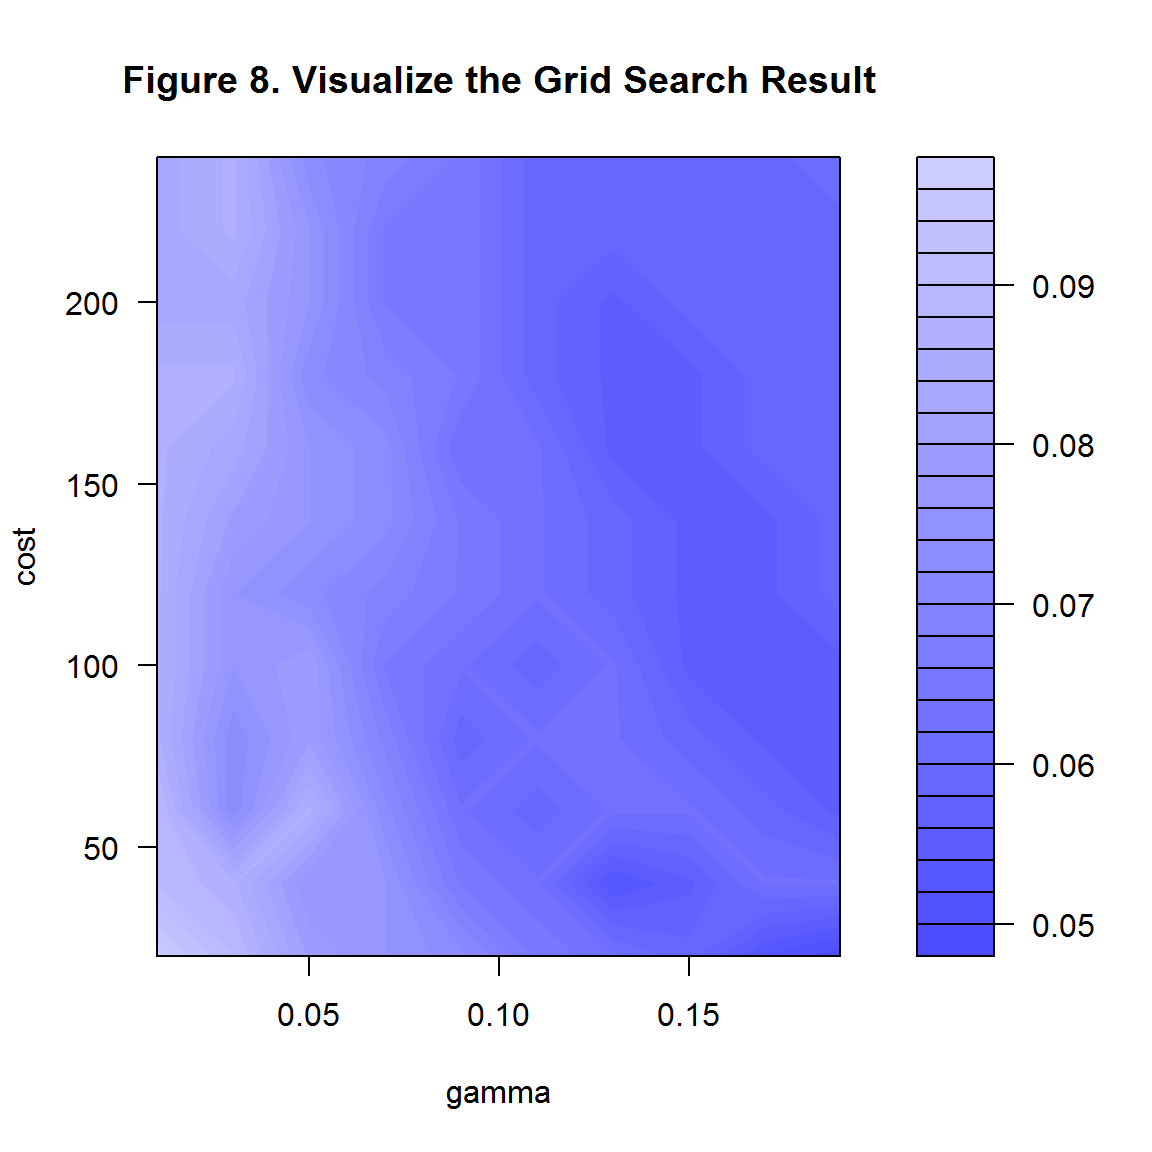
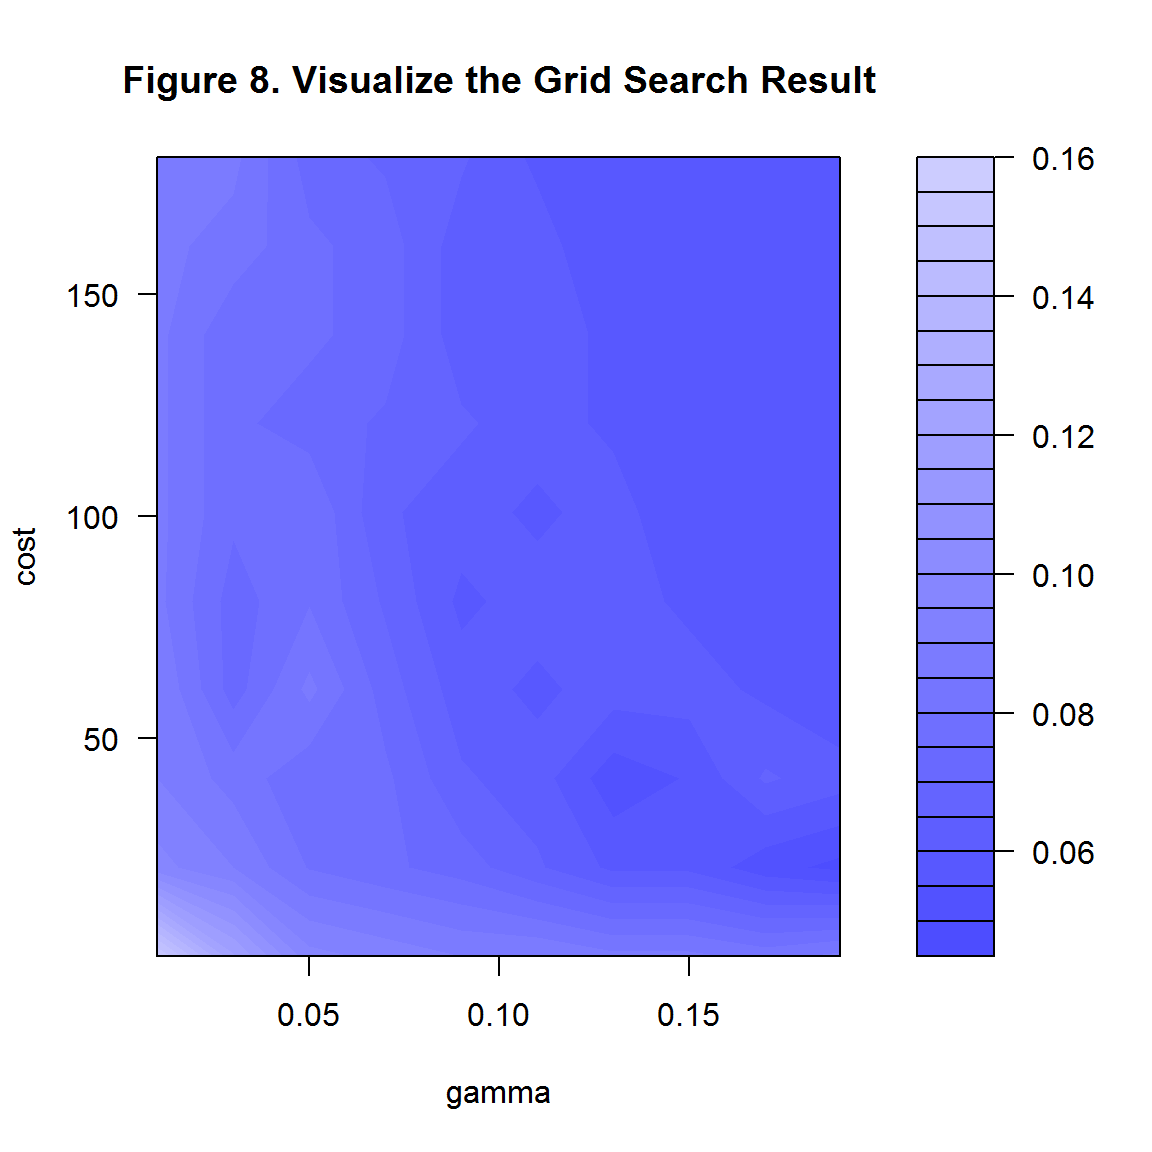
output

diff --git a/docs/birdbones.html b/docs/birdbones.html
@@ -672,12 +672,12 @@ print (paste0(&quot;Classification accuracy of linear SVM is &quot;,
 svm.rbf &lt;- tune(svm, new.type ~ PC1+PC3+PC4, 
                 data = train, kernel = &quot;radial&quot;, 
                 ranges = list(gamma = seq(0.01, 0.2, 0.02),
-                              cost = seq(20, 240, 20)))
+                              cost = seq(1, 200, 20)))
 svm.rbf$best.parameters</code></pre>
 <pre><code>##    gamma cost
-## 10  0.19   20</code></pre>
+## 20  0.19   21</code></pre>
 <pre class="r"><code>plot(svm.rbf, main = &quot;Figure 8. Visualize the Grid Search Result&quot;)</code></pre>
[2 lines of base64/hex data omitted]
 <pre class="r"><code># predict on test set
 pred &lt;- predict(svm.rbf$best.model, newdata = test)
 # classification accuracy
